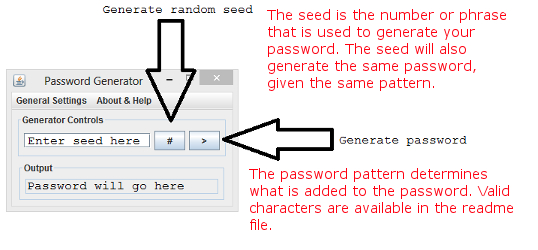
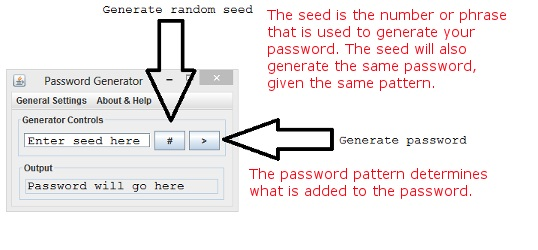
Usability and help fixes

diff --git a/PassGenClient.java b/PassGenClient.java
@@ -21,7 +21,7 @@ public class PassGenClient extends JFrame implements ActionListener {
 	private TitledBorder controlsBorder, outputBorder;
 	private JMenuBar menuBar;
 	private JMenu file, about, changeSettings;
-	private JMenuItem exit, howToUse, aboutProgram, changeFilePath, changePasswordPattern, sourceCode;
+	private JMenuItem exit, howToUse, aboutProgram, changeFilePath, resetFilePath, changePasswordPattern, sourceCode;
 	
 	public PassGenClient() {
 		super( "Password Generator" );
@@ -96,6 +96,11 @@ public class PassGenClient extends JFrame implements ActionListener {
 		else if( ae.getSource() == howToUse ) {
 			HelpDialog hd = new HelpDialog( this );
 		}
+		
+		else if( ae.getSource() == resetFilePath ) {
+			this.filePath = "default";
+			saveSettings();
+		}
 	}
 	
 	/**
@@ -106,7 +111,7 @@ public class PassGenClient extends JFrame implements ActionListener {
 		jfc.setFileFilter( new FileNameExtensionFilter( "Text files", "txt" ) );
 		
 		int returnVal = jfc.showOpenDialog( this );
-    	if(returnVal == JFileChooser.APPROVE_OPTION) {
+    	if( returnVal == JFileChooser.APPROVE_OPTION ) {
             this.filePath = jfc.getSelectedFile().getPath();
 				saveSettings();
 				loadSettings();
@@ -118,7 +123,7 @@ public class PassGenClient extends JFrame implements ActionListener {
 	 */
 	private final void saveSettings() {
 		try {
-			File settingsFile = new File( "settings.ini" );
+			File settingsFile = new File( ".settings.ini" );
 			
 			if( settingsFile.exists() )
 				settingsFile.delete();
@@ -140,7 +145,7 @@ public class PassGenClient extends JFrame implements ActionListener {
 	 */
 	private final void loadSettings() {
 		try {
-			File settingsFile = new File( "settings.ini" );
+			File settingsFile = new File( ".settings.ini" );
 			
 			Scanner fileScan = new Scanner( settingsFile );
 			this.passwordPattern = fileScan.nextLine();
@@ -163,7 +168,6 @@ public class PassGenClient extends JFrame implements ActionListener {
 			
 		}
 		catch( Exception e ) {
-			JOptionPane.showMessageDialog( this, "Error loading settings file! Reverting to default!", "Error!", JOptionPane.ERROR_MESSAGE );
 			this.passwordPattern = "snsns";
 			this.pg = new PasswordGenerator();
 			this.filePath = "default";
@@ -222,14 +226,18 @@ public class PassGenClient extends JFrame implements ActionListener {
 		this.changePasswordPattern.addActionListener( this );
 		this.sourceCode = new JMenuItem( "Program source" );
 		this.sourceCode.addActionListener( this );
-		this.changeFilePath = new JMenuItem( "Change file path" );
+		this.changeFilePath = new JMenuItem( "Use custom wordlist" );
 		this.changeFilePath.addActionListener( this );
+		this.resetFilePath = new JMenuItem( "Use default wordlist" );
+		this.resetFilePath.addActionListener( this );
 		
 		//menus
 		this.changeSettings = new JMenu( "Change Settings" );
 		this.changeSettings.setIcon( new ImageIcon( getClass().getResource( "res/gear.png" ) ) );
 		this.changeSettings.add( changePasswordPattern );
+		this.changeSettings.addSeparator();
 		this.changeSettings.add( changeFilePath );
+		this.changeSettings.add( resetFilePath );
 		
 		this.file = new JMenu( "General Settings" );
 		this.file.add( changeSettings );

diff --git a/HelpDialog.java b/HelpDialog.java
@@ -6,7 +6,7 @@ import java.awt.event.*;
 public class HelpDialog extends JDialog implements ActionListener {
 	
 	private ImageIcon howToUse;
-	private JButton okButton;
+	private JButton okButton, viablePasswordCharacters;
 	
 	public HelpDialog( JFrame parent ) {
 		super( parent, "Help", true );
@@ -15,8 +15,12 @@ public class HelpDialog extends JDialog implements ActionListener {
 		this.okButton = new JButton( "Ok" );
 		this.okButton.addActionListener( this );
 		
+		this.viablePasswordCharacters = new JButton( "Creating your own password pattern" );
+		this.viablePasswordCharacters.addActionListener( this );
+		
 		super.add( new JLabel( howToUse ) );
 		super.add( okButton );
+		super.add( viablePasswordCharacters );
 		super.setLayout( new FlowLayout() );
 		super.setLocationRelativeTo( parent );
 		super.setDefaultCloseOperation( JFrame.DISPOSE_ON_CLOSE );
@@ -27,6 +31,15 @@ public class HelpDialog extends JDialog implements ActionListener {
 	public void actionPerformed( ActionEvent ae ) {
 		if( ae.getSource() == okButton ) {
 			dispose();
+		}
+		
+		else if( ae.getSource() == viablePasswordCharacters ) {
+			JOptionPane.showMessageDialog( this, "When you create a password pattern, the program will create passwords based on that template." +
+														"\nThese templates are strings of characters. To add various elements to your password," +
+														"\n-add the respective character: \nTo add a word, use an 's' or a 'w'" +
+														"\n-To add a number, use an 'n' or a '#'" +
+														"\n-To add a random character, use a '*'" +
+														"\n-To add a underscore, use a '_'", "Creating a password pattern", JOptionPane.INFORMATION_MESSAGE );
 		}
 	}
 }
